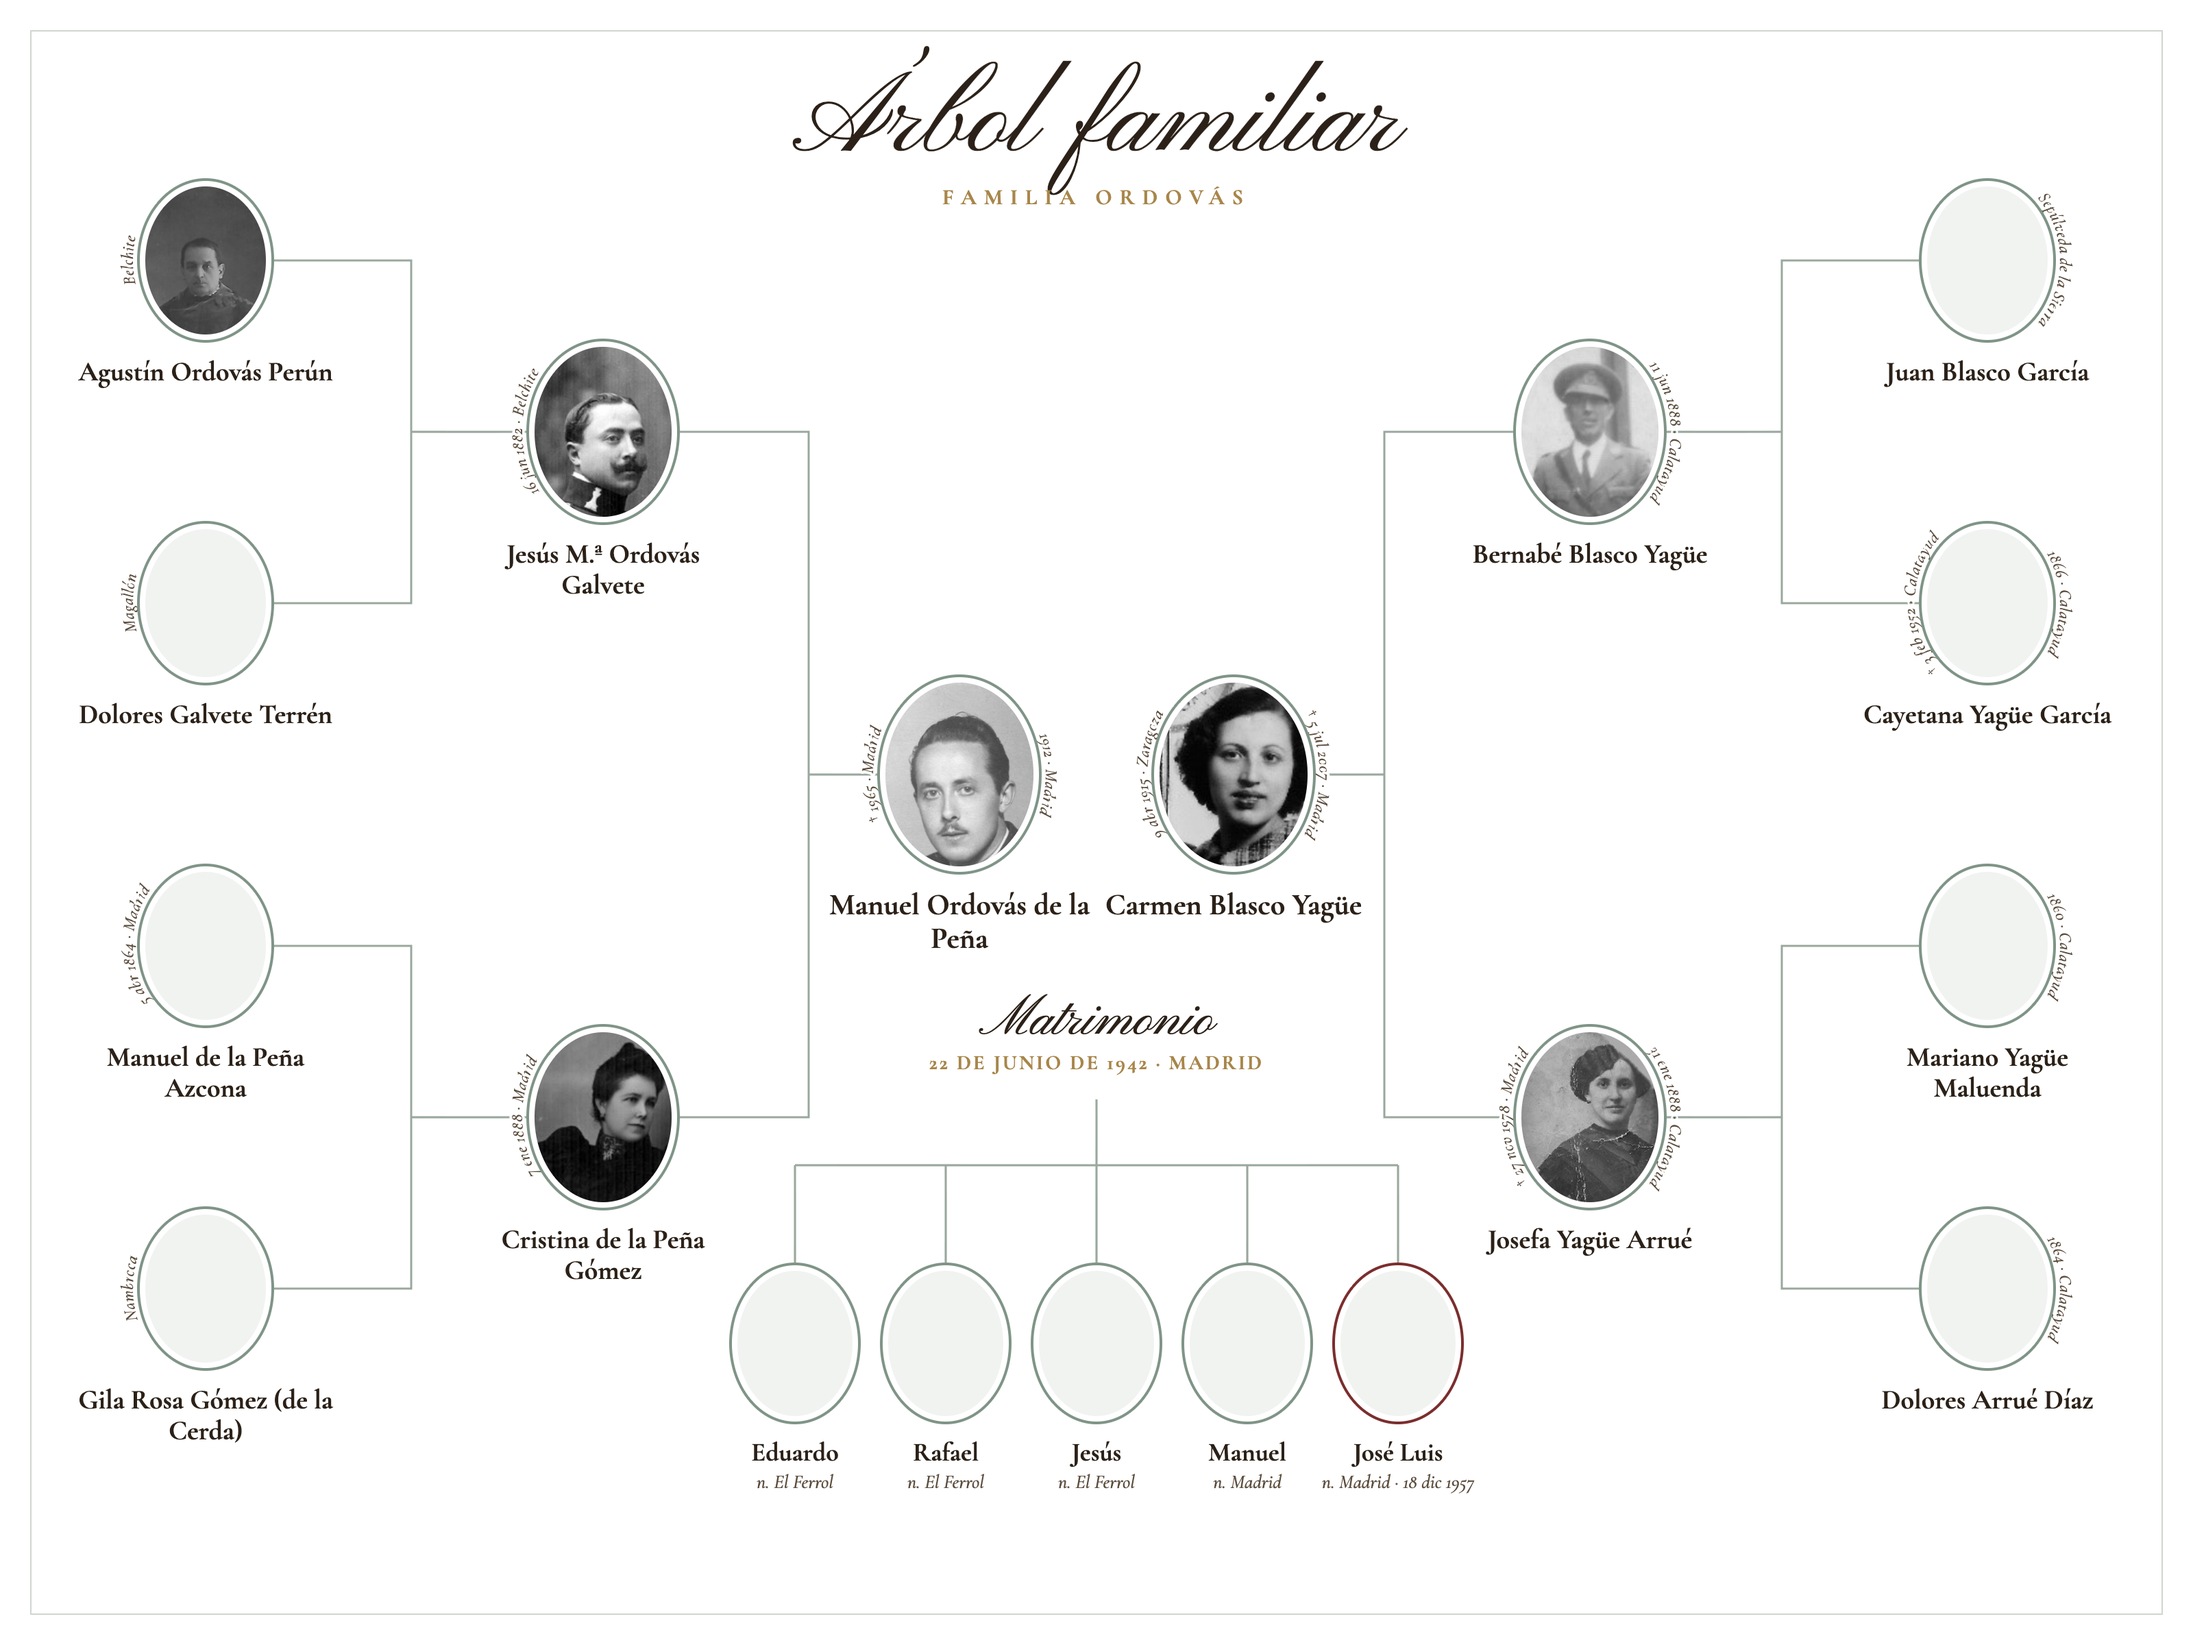
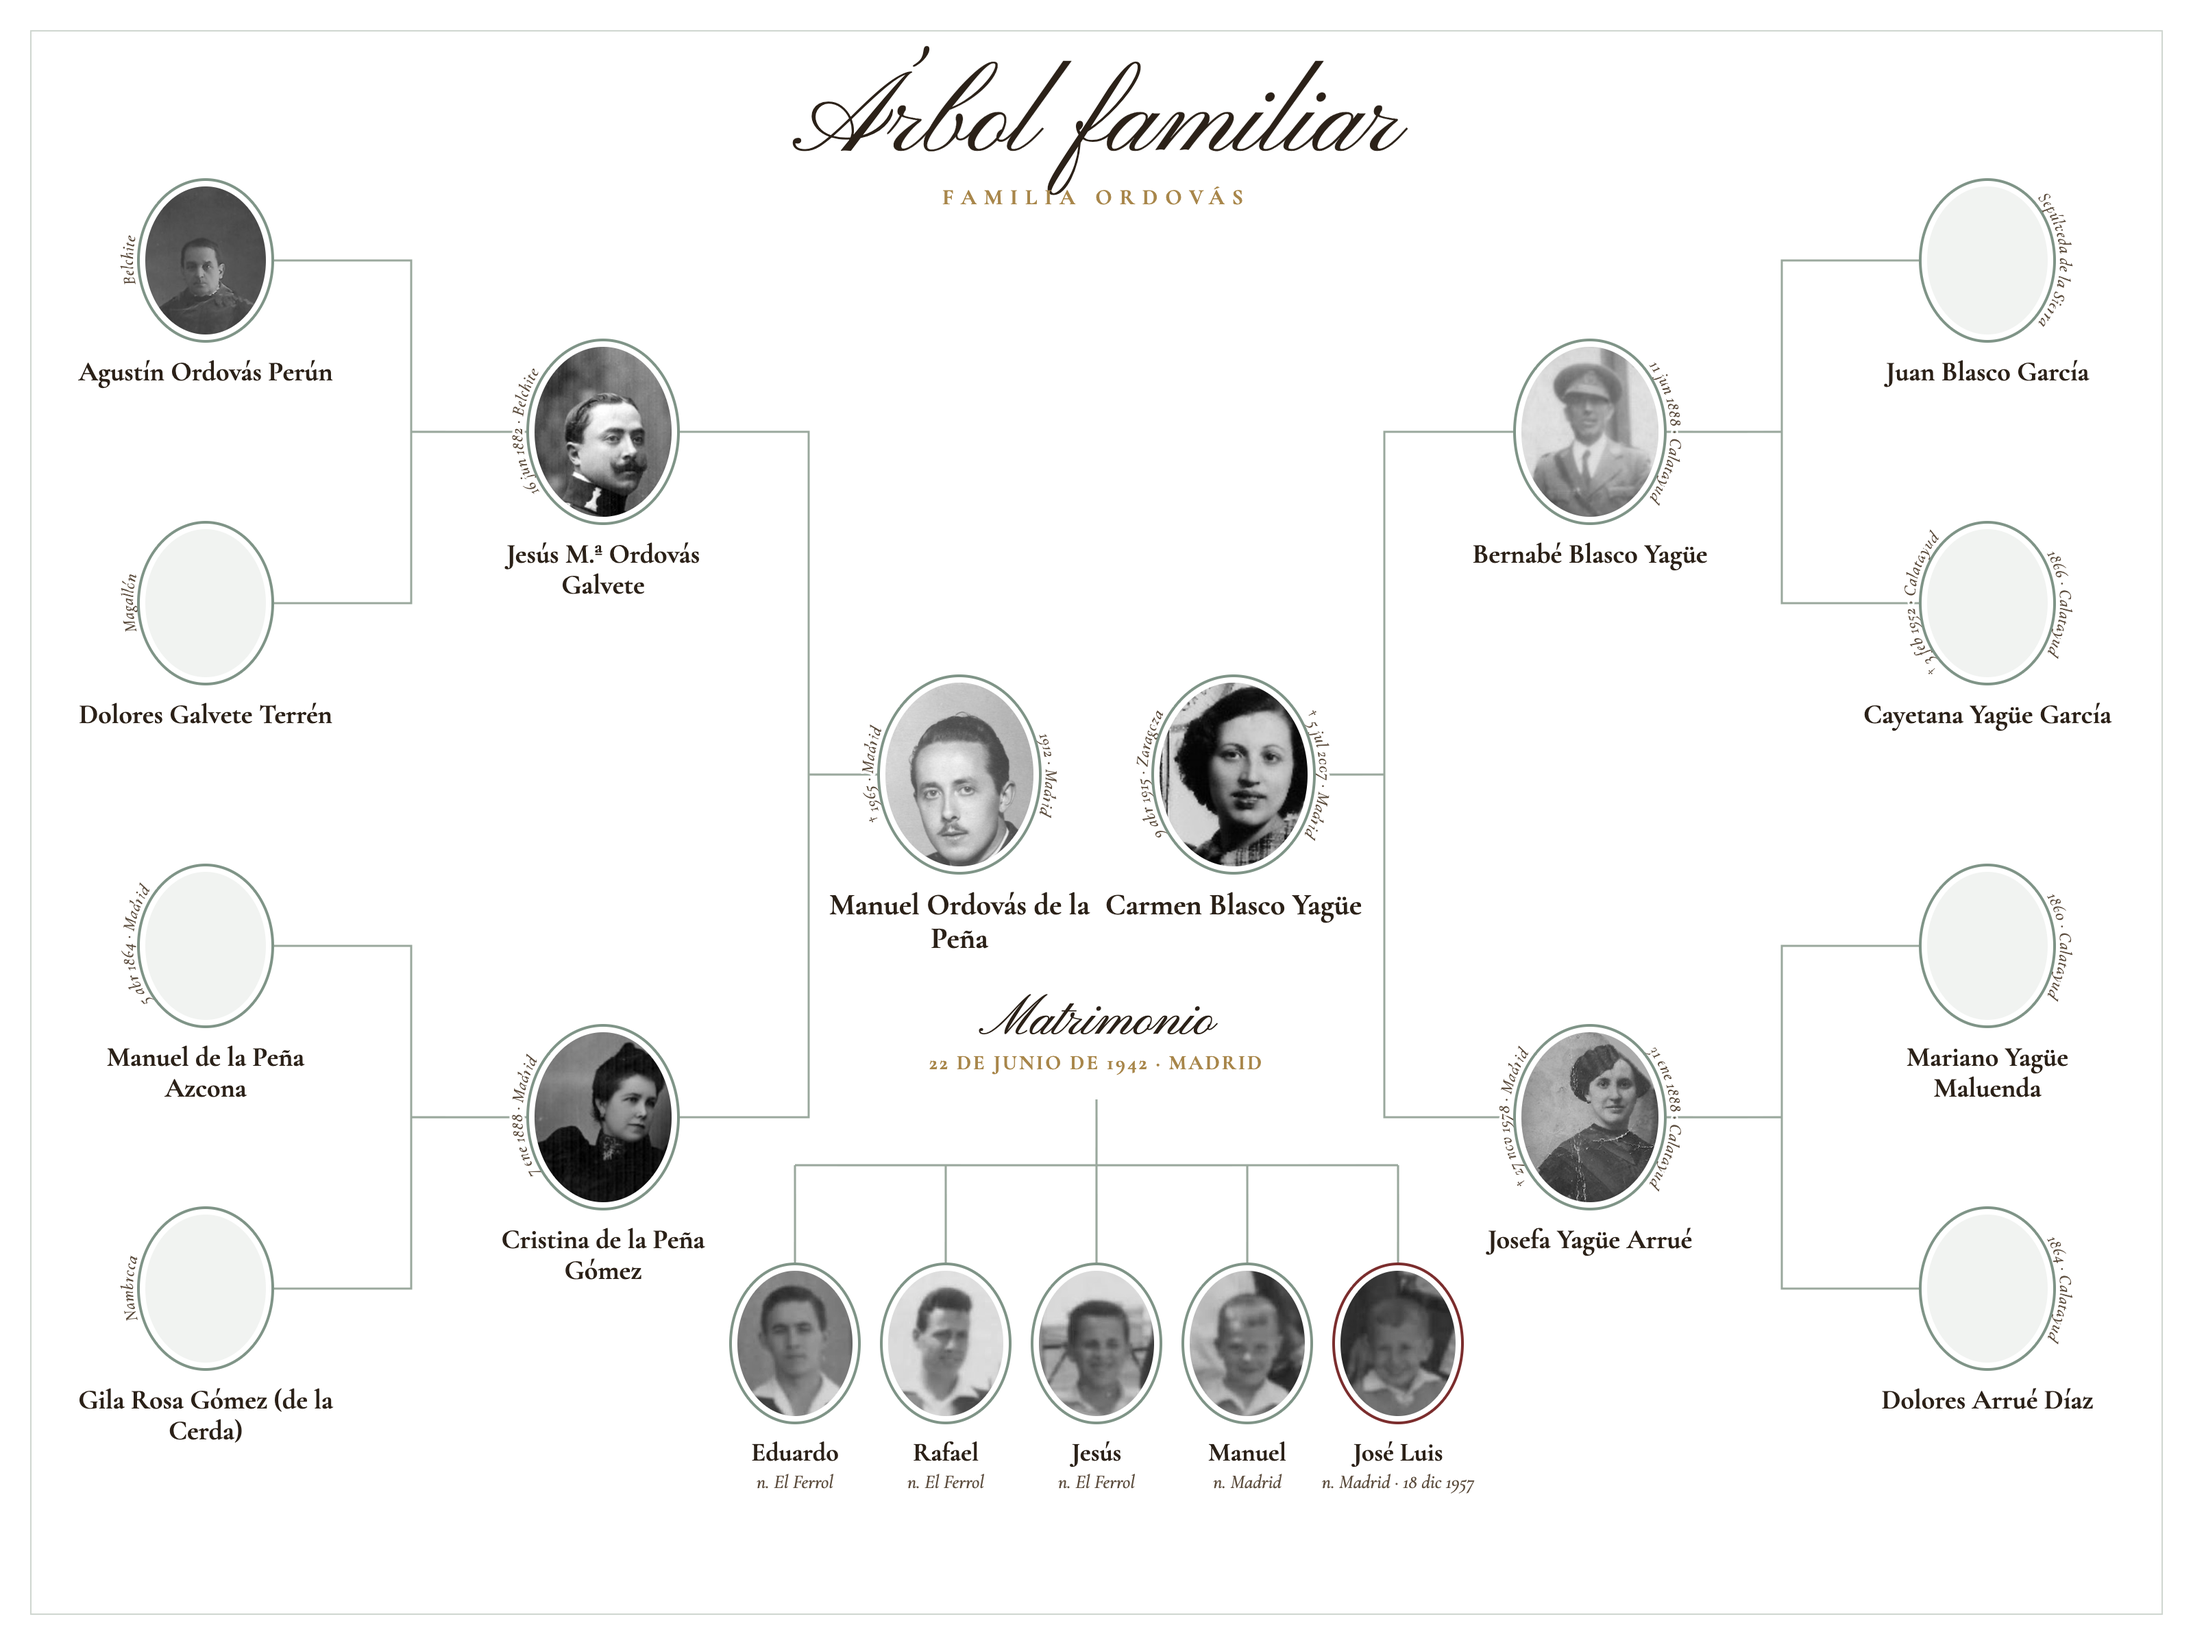
Fotos de los cinco hermanos en el árbol familiar

Changed region(s): [[0.3125, 0.75, 0.6875, 0.875]]

diff --git a/arbol-lamina.html b/arbol-lamina.html
@@ -22,11 +22,11 @@
 <div class="fig " style="left:1060.0px;top:753.0px;width:200px"><div class="caja" style="width:100px;height:124px"><svg class="arco" width="192" height="216" viewBox="0 0 192 216" style="left:-46px;top:-46px"><path id="a12n" d="M111.3 39.4 A59.0 71.0 0 0 1 111.3 176.6" fill="none"/><text><textPath href="#a12n" startOffset="50%" text-anchor="middle">31 ene 1888 · Calatayud</textPath></text><path id="a12d" d="M80.7 176.6 A59.0 71.0 0 0 1 80.7 39.4" fill="none"/><text><textPath href="#a12d" startOffset="50%" text-anchor="middle">† 27 nov 1978 · Madrid</textPath></text></svg><span class="ovalo" data-ini="JY" style="width:100px;height:124px"><img src="img/Josefa-Yague-Arrue-ovalo.jpg" alt="Josefa Yagüe Arrué" style="object-view-box:inset(0 0 0 0)"></span></div><span class="rotulo"><b>Josefa Yagüe Arrué</b></span></div>
 <div class="fig centro" style="left:605.0px;top:498.0px;width:190px"><div class="caja" style="width:108px;height:134px"><svg class="arco" width="200" height="226" viewBox="0 0 200 226" style="left:-46px;top:-46px"><path id="a13n" d="M116.3 39.6 A63.0 76.0 0 0 1 116.3 186.4" fill="none"/><text><textPath href="#a13n" startOffset="50%" text-anchor="middle">1912 · Madrid</textPath></text><path id="a13d" d="M83.7 186.4 A63.0 76.0 0 0 1 83.7 39.6" fill="none"/><text><textPath href="#a13d" startOffset="50%" text-anchor="middle">† 1965 · Madrid</textPath></text></svg><span class="ovalo" data-ini="MO" style="width:108px;height:134px"><img src="img/Manuel-Ordovas-de-la-Pena-2.jpg" alt="Manuel Ordovás de la Peña" style="object-view-box:inset(4% 0 37% 15%)"></span></div><span class="rotulo"><b>Manuel Ordovás de la Peña</b></span></div>
 <div class="fig centro" style="left:805.0px;top:498.0px;width:190px"><div class="caja" style="width:108px;height:134px"><svg class="arco" width="200" height="226" viewBox="0 0 200 226" style="left:-46px;top:-46px"><path id="a14n" d="M83.7 186.4 A63.0 76.0 0 0 1 83.7 39.6" fill="none"/><text><textPath href="#a14n" startOffset="50%" text-anchor="middle">9 abr 1915 · Zaragoza</textPath></text><path id="a14d" d="M116.3 39.6 A63.0 76.0 0 0 1 116.3 186.4" fill="none"/><text><textPath href="#a14d" startOffset="50%" text-anchor="middle">† 5 jul 2007 · Madrid</textPath></text></svg><span class="ovalo giro90" data-ini="CB" style="width:108px;height:134px"><img src="img/Carnet-de-funcionaria-del-CSP.jpg" alt="Carmen Blasco Yagüe" style="object-view-box:inset(17% 12% 52% 67%)"></span></div><span class="rotulo"><b>Carmen Blasco Yagüe</b></span></div>
-<div class="fig hijo" style="left:515.0px;top:927.0px;width:130px"><div class="caja" style="width:84px;height:106px"><span class="ovalo" data-ini="E" style="width:84px;height:106px"></span></div><span class="rotulo"><b>Eduardo</b><small>n. El Ferrol</small></span></div>
-<div class="fig hijo" style="left:625.0px;top:927.0px;width:130px"><div class="caja" style="width:84px;height:106px"><span class="ovalo" data-ini="R" style="width:84px;height:106px"></span></div><span class="rotulo"><b>Rafael</b><small>n. El Ferrol</small></span></div>
-<div class="fig hijo" style="left:735.0px;top:927.0px;width:130px"><div class="caja" style="width:84px;height:106px"><span class="ovalo" data-ini="J" style="width:84px;height:106px"></span></div><span class="rotulo"><b>Jesús</b><small>n. El Ferrol</small></span></div>
-<div class="fig hijo" style="left:845.0px;top:927.0px;width:130px"><div class="caja" style="width:84px;height:106px"><span class="ovalo" data-ini="M" style="width:84px;height:106px"></span></div><span class="rotulo"><b>Manuel</b><small>n. Madrid</small></span></div>
-<div class="fig hijo autor" style="left:955.0px;top:927.0px;width:130px"><div class="caja" style="width:84px;height:106px"><span class="ovalo" data-ini="JL" style="width:84px;height:106px"></span></div><span class="rotulo"><b>José Luis</b><small>n. Madrid · 18 dic 1957</small></span></div>
+<div class="fig hijo" style="left:515.0px;top:927.0px;width:130px"><div class="caja" style="width:84px;height:106px"><span class="ovalo" data-ini="E" style="width:84px;height:106px"><img src="img/Eduardo-ovalo.jpg" alt="Eduardo" style="object-view-box:inset(0 0 0 0)"></span></div><span class="rotulo"><b>Eduardo</b><small>n. El Ferrol</small></span></div>
+<div class="fig hijo" style="left:625.0px;top:927.0px;width:130px"><div class="caja" style="width:84px;height:106px"><span class="ovalo" data-ini="R" style="width:84px;height:106px"><img src="img/Rafael-ovalo.jpg" alt="Rafael" style="object-view-box:inset(0 0 0 0)"></span></div><span class="rotulo"><b>Rafael</b><small>n. El Ferrol</small></span></div>
+<div class="fig hijo" style="left:735.0px;top:927.0px;width:130px"><div class="caja" style="width:84px;height:106px"><span class="ovalo" data-ini="J" style="width:84px;height:106px"><img src="img/Jesus-ovalo.jpg" alt="Jesús" style="object-view-box:inset(0 0 0 0)"></span></div><span class="rotulo"><b>Jesús</b><small>n. El Ferrol</small></span></div>
+<div class="fig hijo" style="left:845.0px;top:927.0px;width:130px"><div class="caja" style="width:84px;height:106px"><span class="ovalo" data-ini="M" style="width:84px;height:106px"><img src="img/Manuel-ovalo.jpg" alt="Manuel" style="object-view-box:inset(0 0 0 0)"></span></div><span class="rotulo"><b>Manuel</b><small>n. Madrid</small></span></div>
+<div class="fig hijo autor" style="left:955.0px;top:927.0px;width:130px"><div class="caja" style="width:84px;height:106px"><span class="ovalo" data-ini="JL" style="width:84px;height:106px"><img src="img/Jose-Luis-ovalo.jpg" alt="José Luis" style="object-view-box:inset(0 0 0 0)"></span></div><span class="rotulo"><b>José Luis</b><small>n. Madrid · 18 dic 1957</small></span></div>
 <div class="boda"><span class="guion">Matrimonio</span><small>22 de junio de 1942 · Madrid</small></div>
 </div>
 <script>
